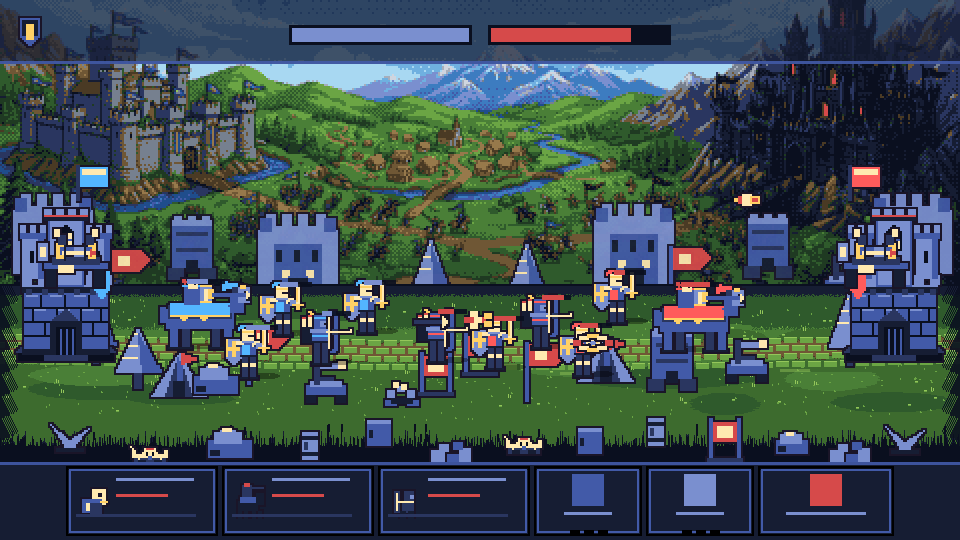
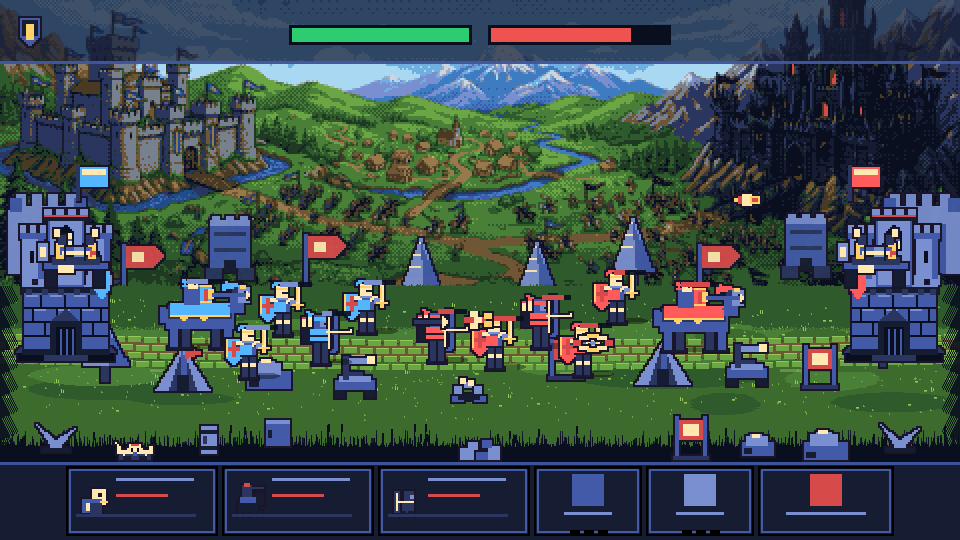
feat(render): bold team heraldry, organic horizon blending, and decluttered props

diff --git a/src/render/unitart.ts b/src/render/unitart.ts
@@ -41,24 +41,25 @@ export function unitKey(age: Age | string, role: UnitRole | string, side: 'playe
 // ---------------------------------------------------------------- stone age
 
 const CLUBBER: SpriteOp[] = [
-  // hide shield, held on the far side with wood/hide boss
+  // hide shield, held on the far side with bold team face and wood boss
   r(7, 8, 6, 9, 'mid'),
-  r(8, 9, 4, 7, 'body'),
+  r(8, 9, 4, 7, 'team'),
   r(9, 11, 2, 3, 'accent'),
   // legs with calf definition + bare feet
   r(13, 16, 4, 5, 'edge'), r(14, 21, 3, 5, 'mid'),
   r(18, 16, 4, 5, 'edge'), r(19, 21, 3, 5, 'mid'),
   r(13, 26, 4, 1, 'panel'), r(19, 26, 4, 1, 'panel'),
-  // bare torso: back shadow, muscle mid-tone, chest highlight, sash & belt
+  // bare torso: back shadow, muscle mid-tone, chest highlight, sash & team war-kilt
   r(12, 9, 9, 7, 'edge'),
   r(14, 9, 6, 5, 'body'),
   r(17, 10, 3, 2, 'accent'),
-  r(12, 11, 9, 1, 'team'),
-  r(12, 15, 9, 1, 'panel'),
+  r(12, 11, 9, 2, 'team'),
+  r(12, 14, 9, 3, 'team'),
+  r(12, 17, 9, 1, 'panel'),
   // head: ragged hair fringe, headband, brow ridge, eye, jawline
   r(14, 3, 6, 6, 'body'),
   r(13, 1, 5, 2, 'panel'), r(17, 2, 3, 1, 'panel'),
-  r(13, 4, 7, 1, 'team'),
+  r(13, 3, 7, 2, 'team'),
   r(19, 5, 1, 1, 'body'), // nose bridge
   r(18, 5, 1, 1, 'ink'),  // eye
   // club raised overhead: angled arm, knotted heavy stone cudgel with flake highlights
@@ -110,15 +111,16 @@ const WAR_MAMMOTH: SpriteOp[] = [
   tri(43, 16, 46, 10, 44, 16, 'light'),
   tri(45, 11, 46, 8, 47, 11, 'light'),
   r(42, 18, 2, 2, 'accent'),
-  // rider: fur-clad chieftain, team blanket, spear with pennant
+  // rider: fur-clad chieftain, broad team blanket with gold fringe, spear with pennant
   r(21, 8, 5, 5, 'mid'),
-  r(16, 12, 13, 2, 'team'),
+  r(14, 11, 18, 5, 'team'),
+  r(13, 16, 20, 1, 'accent'),
   r(20, 4, 6, 6, 'body'),
-  r(20, 4, 6, 1, 'team'),
+  r(19, 3, 8, 2, 'team'),
   r(21, 1, 4, 3, 'body'),
   r(20, 1, 6, 1, 'panel'),
   r(26, 0, 1, 9, 'edge'),
-  tri(27, 0, 34, 2, 27, 5, 'team'),
+  tri(27, 0, 36, 2, 27, 6, 'team'),
 ];
 
 const SLINGER: SpriteOp[] = [
@@ -129,14 +131,15 @@ const SLINGER: SpriteOp[] = [
   r(12, 16, 4, 5, 'edge'), r(13, 21, 4, 5, 'body'),
   r(18, 16, 4, 5, 'edge'), r(19, 21, 4, 5, 'body'),
   r(12, 26, 5, 1, 'panel'), r(19, 26, 5, 1, 'panel'),
-  // torso, team sash, hide skirt
+  // torso, team war-tunic drape & skirt
   r(12, 9, 9, 7, 'edge'),
-  r(13, 9, 7, 5, 'body'),
-  r(12, 11, 9, 1, 'team'),
-  r(11, 15, 11, 2, 'mid'),
-  // head, hair, brow, eye
+  r(12, 9, 8, 7, 'team'),
+  r(12, 13, 8, 1, 'panel'),
+  r(11, 15, 10, 2, 'team'),
+  // head, hair, brow, eye, team feathered band
   r(14, 3, 6, 6, 'body'),
-  r(13, 2, 7, 2, 'panel'),
+  r(13, 2, 7, 2, 'team'),
+  tri(11, 0, 14, 2, 13, 4, 'team'),
   r(19, 5, 1, 1, 'body'),
   r(18, 5, 1, 1, 'ink'),
   // whirling sling: extended cords, stone pouch with rock
@@ -151,21 +154,21 @@ const SLINGER: SpriteOp[] = [
 // ------------------------------------------------------------ medieval age
 
 const MAN_AT_ARMS: SpriteOp[] = [
-  // kite shield with heraldic cross and gold border
-  r(7, 7, 6, 9, 'body'),
-  tri(6, 16, 14, 16, 10, 21, 'body'),
+  // kite shield with bold heraldic team face, gold border and bright cross
+  r(7, 7, 6, 9, 'team'),
+  tri(6, 16, 14, 16, 10, 21, 'team'),
   r(6, 7, 1, 9, 'accent'),
-  r(9, 8, 2, 8, 'accent'),
-  r(7, 11, 6, 2, 'accent'),
+  r(9, 8, 2, 8, 'highlight'),
+  r(7, 11, 6, 2, 'highlight'),
   // legs in steel mail & poleyns + sabatons
   r(14, 16, 3, 10, 'mid'), r(18, 16, 3, 10, 'mid'),
   r(14, 19, 3, 2, 'light'), r(18, 19, 3, 2, 'light'),
   r(13, 26, 4, 1, 'panel'), r(18, 26, 4, 1, 'panel'),
-  // mail hauberk with layered pauldrons and team tabard
+  // mail hauberk with layered pauldrons and bold team tabard
   r(13, 9, 8, 7, 'edge'),
   r(11, 8, 4, 3, 'light'), r(19, 8, 4, 3, 'light'),
   r(11, 10, 3, 1, 'mid'), r(20, 10, 3, 1, 'mid'),
-  r(14, 10, 4, 6, 'team'),
+  r(13, 10, 6, 6, 'team'),
   r(13, 15, 8, 1, 'panel'),
   // great helm with brass crown band, visor slot and heraldic plume
   r(14, 2, 6, 7, 'light'),
@@ -204,21 +207,21 @@ const KNIGHT_HORSE: SpriteOp[] = [
   r(45, 8, 2, 3, 'panel'),
   r(44, 6, 1, 1, 'ink'),
   r(38, 3, 3, 5, 'mid'),
-  // rider: plate armor, grand helm with crest, heater shield
+  // rider: plate armor, grand helm with crest, bold team heater shield
   r(14, 3, 8, 10, 'edge'),
   r(13, 3, 10, 1, 'team'),
   r(16, 0, 5, 5, 'light'),
-  tri(13, 0, 16, 1, 14, 3, 'highlight'),
+  tri(13, 0, 16, 1, 14, 3, 'team'),
   r(19, 2, 1, 1, 'ink'),
-  r(22, 3, 6, 9, 'body'),
+  r(22, 3, 6, 9, 'team'),
   r(22, 3, 6, 1, 'accent'),
   r(22, 11, 6, 1, 'accent'),
-  r(24, 5, 2, 6, 'light'),
+  r(24, 5, 2, 6, 'highlight'),
   // couched lance: vamplate, shaft, steel spearhead, fluttering pennant
   r(26, 5, 3, 5, 'accent'),
   r(28, 7, 17, 2, 'edge'),
   tri(45, 6, 47, 8, 45, 10, 'light'),
-  tri(33, 1, 43, 3, 33, 6, 'team'),
+  tri(33, 1, 44, 3, 33, 6, 'team'),
 ];
 
 const ARCHER: SpriteOp[] = [
@@ -230,15 +233,15 @@ const ARCHER: SpriteOp[] = [
   // legs + leather boots
   r(14, 16, 3, 10, 'mid'), r(18, 16, 3, 10, 'mid'),
   r(13, 26, 4, 1, 'panel'), r(18, 26, 4, 1, 'panel'),
-  // padded gambeson with team trim
+  // padded gambeson with bold team tunic
   r(13, 9, 8, 7, 'edge'),
-  r(12, 9, 10, 2, 'body'),
-  r(13, 12, 8, 1, 'team'),
+  r(12, 9, 9, 6, 'team'),
+  r(12, 12, 9, 1, 'panel'),
   r(13, 15, 8, 1, 'panel'),
   // archer hood with feather and eye
   r(14, 2, 6, 7, 'edge'),
-  r(14, 3, 6, 1, 'team'),
-  tri(11, 0, 14, 1, 13, 3, 'accent'),
+  r(14, 3, 6, 2, 'team'),
+  tri(10, 0, 14, 1, 12, 4, 'team'),
   r(17, 5, 3, 3, 'body'),
   r(19, 6, 1, 1, 'ink'),
   // recurve longbow: curved limb tips, stave, grip, taut bowstring, nocked arrow
@@ -257,19 +260,20 @@ const COMMANDO: SpriteOp[] = [
   // field radio pack, beacon, whip antenna
   r(6, 7, 6, 8, 'panel'),
   r(7, 0, 1, 7, 'panel'),
-  r(7, 0, 1, 1, 'light'),
+  r(7, 0, 1, 2, 'team'),
   r(8, 9, 1, 1, 'highlight'),
   // legs + combat boots
   r(14, 16, 3, 10, 'mid'), r(18, 16, 3, 10, 'mid'),
   r(13, 26, 4, 1, 'panel'), r(18, 26, 4, 1, 'panel'),
-  // plate carrier with ceramic plates and ammo pouches
+  // plate carrier with ceramic plates, team chest webbing & arm patch
   r(12, 9, 10, 7, 'body'),
   r(13, 10, 8, 4, 'edge'),
+  r(13, 10, 8, 2, 'team'),
   r(13, 14, 2, 2, 'panel'), r(16, 14, 2, 2, 'panel'), r(19, 14, 2, 2, 'panel'),
   r(11, 10, 2, 3, 'team'),
-  // tactical helmet, NVG night vision goggles, comms mic
+  // tactical helmet, NVG night vision goggles, comms mic, team headband
   r(13, 2, 7, 5, 'mid'),
-  r(13, 4, 7, 1, 'team'),
+  r(13, 3, 7, 2, 'team'),
   r(18, 4, 3, 2, 'edge'),
   r(19, 4, 2, 1, 'body'),
   r(17, 6, 3, 1, 'panel'),
@@ -295,17 +299,19 @@ const HEAVY_TANK: SpriteOp[] = [
   r(25, 26, 5, 7, 'mid'), r(27, 28, 1, 3, 'edge'),
   r(32, 26, 5, 7, 'mid'), r(34, 28, 1, 3, 'edge'),
   r(38, 26, 4, 6, 'edge'),
-  // hull with sloped glacis, ERA reactive armor tiles, team insignia
+  // hull with sloped glacis, ERA reactive armor tiles, bold team insignia
   r(4, 18, 34, 7, 'body'),
   tri(34, 24, 44, 24, 42, 18, 'edge'),
   r(15, 18, 4, 3, 'edge'), r(20, 18, 4, 3, 'edge'), r(25, 18, 4, 3, 'edge'),
-  r(6, 19, 8, 4, 'team'),
-  // angular wedge turret, commander cupola, thermal optic, antenna
+  r(5, 19, 10, 4, 'team'),
+  // angular wedge turret, commander cupola, thermal optic, antenna pennant
   r(10, 8, 20, 9, 'edge'),
+  r(12, 10, 16, 2, 'team'),
   tri(29, 8, 33, 12, 29, 16, 'edge'),
   r(12, 5, 5, 3, 'panel'),
   r(15, 6, 2, 1, 'body'),
   r(11, 1, 1, 5, 'panel'),
+  tri(11, 1, 15, 2, 11, 4, 'team'),
   // main smoothbore cannon: armored mantlet, thermal bore sleeve, muzzle brake
   r(29, 10, 4, 5, 'panel'),
   r(33, 11, 10, 3, 'edge'),
@@ -314,17 +320,18 @@ const HEAVY_TANK: SpriteOp[] = [
 ];
 
 const SNIPER: SpriteOp[] = [
-  // textured ghillie cape with ragged camouflage tufts, team shoulder patch
+  // textured ghillie cape with ragged camouflage tufts, team shoulder mantle
   r(5, 8, 17, 13, 'panel'),
   tri(5, 12, 3, 15, 6, 17, 'edge'),
   tri(7, 18, 5, 21, 9, 21, 'mid'),
   tri(12, 20, 10, 23, 14, 21, 'edge'),
-  r(11, 9, 4, 2, 'team'),
+  r(9, 8, 8, 3, 'team'),
   // kneeling legs + tactical boots
   r(13, 22, 5, 4, 'edge'), r(18, 20, 5, 6, 'body'),
   r(12, 26, 6, 1, 'panel'), r(18, 26, 6, 1, 'panel'),
-  // sniper boonie hat, mesh veil, eye
+  // sniper boonie hat, mesh veil, eye, team hatband
   r(13, 4, 8, 2, 'panel'),
+  r(13, 4, 8, 1, 'team'),
   r(14, 2, 6, 3, 'mid'),
   r(17, 5, 3, 3, 'edge'),
   r(18, 6, 1, 1, 'ink'),

diff --git a/src/render/propart.ts b/src/render/propart.ts
@@ -375,12 +375,12 @@ const STONE_PROPS: Record<string, PropDef> = {
   crag_small: prop('prop_crag_small_stone', 18, 12, CRAG_S),
   // Stone-age answers for the shared layout slots.
   keep: prop('prop_keep_stone', 40, 48, HUT),
-  siege: prop('prop_siege_stone', 26, 40, TOTEM),
+  siege: prop('prop_siege_stone', 26, 40, WATCH_POST),
   watchtower: prop('prop_watchtower_stone', 26, 40, WATCH_POST),
-  radar: prop('prop_radar_stone', 20, 36, TOTEM),
+  radar: prop('prop_radar_stone', 22, 30, palm(22, 30)),
   chimney: prop('prop_chimney_stone', 22, 44, SMOKE_HOLE),
   rift: prop('prop_rift_stone', 20, 22, FIRE_PIT),
-  banner: prop('prop_banner_stone', 22, 32, TOTEM),
+  banner: prop('prop_banner_stone', 26, 40, WATCH_POST),
   tent: prop('prop_tent_stone', 28, 22, HUT),
   catapult: prop('prop_catapult_stone', 24, 22, STRETCHER),
   wreck: prop('prop_wreck_stone', 32, 22, FIRE_PIT),
@@ -408,8 +408,8 @@ const MEDIEVAL_PROPS: Record<string, PropDef> = {
   bones: prop('prop_bones_medieval', 20, 10, BONES),
   // Medieval answers for the shared layout slots.
   watchtower: prop('prop_watchtower_medieval', 26, 40, SIEGE_FAR),
-  radar: prop('prop_radar_medieval', 20, 36, KEEP_FAR),
-  chimney: prop('prop_chimney_medieval', 22, 44, KEEP_FAR),
+  radar: prop('prop_radar_medieval', 22, 32, BANNER),
+  chimney: prop('prop_chimney_medieval', 20, 36, conifer(20, 36, true)),
   rift: prop('prop_rift_medieval', 20, 22, CATAPULT),
   wreck: prop('prop_wreck_medieval', 32, 22, CATAPULT),
   wire: prop('prop_wire_medieval', 20, 20, RACK_MED),
@@ -477,46 +477,38 @@ export interface PropPlacement {
 
 export const PROP_LAYOUT: PropPlacement[] = [
   // Horizon silhouettes, sitting inside the painted sky band.
-  { prop: 'keep', at: 0.055, slot: 'skyline', offset: 0 },
-  { prop: 'keep', at: 0.95, slot: 'skyline', offset: 0 },
-  { prop: 'siege', at: 0.2, slot: 'skyline', offset: 6 },
-  { prop: 'watchtower', at: 0.8, slot: 'skyline', offset: 4 },
-  { prop: 'radar', at: 0.31, slot: 'skyline', offset: 8, anim: 'spin' },
-  { prop: 'chimney', at: 0.66, slot: 'skyline', offset: 2 },
-  { prop: 'totem', at: 0.135, slot: 'skyline', offset: 22 },
-  { prop: 'rift', at: 0.88, slot: 'skyline', offset: 12, anim: 'pulse' },
-  { prop: 'banner', at: 0.72, slot: 'skyline', offset: 20, anim: 'flicker' },
-  { prop: 'pine_large', at: 0.45, slot: 'skyline', offset: 26 },
-  { prop: 'pine_large', at: 0.55, slot: 'skyline', offset: 30 },
+  { prop: 'keep', at: 0.05, slot: 'skyline', offset: 0 },
+  { prop: 'totem', at: 0.15, slot: 'skyline', offset: 18 },
+  { prop: 'siege', at: 0.24, slot: 'skyline', offset: 6 },
+  { prop: 'radar', at: 0.34, slot: 'skyline', offset: 8, anim: 'spin' },
+  { prop: 'pine_large', at: 0.44, slot: 'skyline', offset: 24 },
+  { prop: 'pine_large', at: 0.56, slot: 'skyline', offset: 28 },
+  { prop: 'chimney', at: 0.66, slot: 'skyline', offset: 4 },
+  { prop: 'banner', at: 0.75, slot: 'skyline', offset: 18, anim: 'flicker' },
+  { prop: 'watchtower', at: 0.84, slot: 'skyline', offset: 4 },
+  { prop: 'rift', at: 0.91, slot: 'skyline', offset: 10, anim: 'pulse' },
+  { prop: 'keep', at: 0.96, slot: 'skyline', offset: 0 },
 
-  // Planted along the walkable strip, behind the units.
-  { prop: 'pine_large', at: 0.1, slot: 'ground', offset: 2 },
-  { prop: 'palm', at: 0.145, slot: 'ground', offset: 26 },
-  { prop: 'pine_large', at: 0.885, slot: 'ground', offset: 4 },
-  { prop: 'hut', at: 0.185, slot: 'ground', offset: 34 },
-  { prop: 'crag', at: 0.225, slot: 'ground', offset: 30 },
-  { prop: 'totem', at: 0.28, slot: 'ground', offset: 20 },
-  { prop: 'campfire', at: 0.42, slot: 'ground', offset: 40, anim: 'flicker' },
-  { prop: 'rack', at: 0.5, slot: 'ground', offset: 14 },
-  { prop: 'banner', at: 0.57, slot: 'ground', offset: 36, anim: 'flicker' },
-  { prop: 'tent', at: 0.63, slot: 'ground', offset: 16 },
-  { prop: 'siege', at: 0.7, slot: 'ground', offset: 38 },
-  { prop: 'catapult', at: 0.78, slot: 'ground', offset: 18 },
-  { prop: 'wreck', at: 0.35, slot: 'ground', offset: 38 },
-  { prop: 'sandbags', at: 0.46, slot: 'ground', offset: 30 },
+  // Planted along the walkable strip, behind the units with generous breathing room.
+  { prop: 'palm', at: 0.11, slot: 'ground', offset: 20 },
+  { prop: 'hut', at: 0.19, slot: 'ground', offset: 28 },
+  { prop: 'crag', at: 0.28, slot: 'ground', offset: 24 },
+  { prop: 'wreck', at: 0.38, slot: 'ground', offset: 32 },
+  { prop: 'campfire', at: 0.49, slot: 'ground', offset: 36, anim: 'flicker' },
+  { prop: 'rack', at: 0.59, slot: 'ground', offset: 18 },
+  { prop: 'tent', at: 0.69, slot: 'ground', offset: 20 },
+  { prop: 'catapult', at: 0.78, slot: 'ground', offset: 22 },
+  { prop: 'sandbags', at: 0.86, slot: 'ground', offset: 26 },
+  { prop: 'pine_large', at: 0.92, slot: 'ground', offset: 6 },
 
-  // Foreground band: below the walk line, close to camera.
-  { prop: 'fern_large', at: 0.075, slot: 'front', offset: 0 },
-  { prop: 'bones', at: 0.155, slot: 'front', offset: 10 },
-  { prop: 'crag', at: 0.24, slot: 'front', offset: 4 },
-  { prop: 'barrel', at: 0.325, slot: 'front', offset: 14 },
-  { prop: 'crate', at: 0.395, slot: 'front', offset: 2 },
-  { prop: 'rubble', at: 0.47, slot: 'front', offset: 12 },
-  { prop: 'bones', at: 0.545, slot: 'front', offset: 0 },
-  { prop: 'crate', at: 0.615, slot: 'front', offset: 10 },
-  { prop: 'barrel', at: 0.685, slot: 'front', offset: 0 },
-  { prop: 'wire', at: 0.755, slot: 'front', offset: 8 },
-  { prop: 'crag_small', at: 0.825, slot: 'front', offset: 0 },
-  { prop: 'rubble', at: 0.885, slot: 'front', offset: 12 },
-  { prop: 'fern_large', at: 0.945, slot: 'front', offset: 2 },
+  // Foreground framing: framed at the outer flanks, leaving the center lane clear for combat.
+  { prop: 'fern_large', at: 0.06, slot: 'front', offset: 0 },
+  { prop: 'bones', at: 0.14, slot: 'front', offset: 6 },
+  { prop: 'barrel', at: 0.22, slot: 'front', offset: 8 },
+  { prop: 'crate', at: 0.29, slot: 'front', offset: 2 },
+  { prop: 'rubble', at: 0.50, slot: 'front', offset: 10 },
+  { prop: 'wire', at: 0.72, slot: 'front', offset: 6 },
+  { prop: 'crag_small', at: 0.79, slot: 'front', offset: 2 },
+  { prop: 'crag', at: 0.86, slot: 'front', offset: 6 },
+  { prop: 'fern_large', at: 0.94, slot: 'front', offset: 0 },
 ];

diff --git a/src/render/laneart.ts b/src/render/laneart.ts
@@ -40,11 +40,8 @@ export function paintLane(g: PixelGraphics, age: Age, _characterPalette?: unknow
   const top = LANE_TOP;
   const bottom = FORE_BOTTOM;
 
-  // A) Distance haze under the horizon, then receding field bands. Transitions
-  // are three dithered rows so the bands read as distance, not as shelves.
-  fill(g, 0, top, LANE_WIDTH, 8, char.panel);
-  ditherBand(g, top + 8, char.panel, terrain.fieldFar);
-  fill(g, 0, top + 11, LANE_WIDTH, 30, terrain.fieldFar);
+  // A) Receding field bands: distant terrain blends smoothly with horizon.
+  fill(g, 0, top, LANE_WIDTH, 41, terrain.fieldFar);
   ditherBand(g, top + 41, terrain.fieldFar, terrain.field);
   fill(g, 0, top + 44, LANE_WIDTH, 32, terrain.field);
   ditherBand(g, top + 76, terrain.field, terrain.fieldNear);
@@ -54,10 +51,17 @@ export function paintLane(g: PixelGraphics, age: Age, _characterPalette?: unknow
   paintTrack(g, age, terrain);
   paintTerrainDetail(g, age, terrain.detail, terrain.accent, char);
 
-  // B) Ink line where the sky meets the ground, and a heavier lip at the front
-  // edge of the lane so the terrain reads as a solid slab.
-  fill(g, 0, top - 2, LANE_WIDTH, 2, char.dark);
-  fill(g, 0, FORE_BOTTOM - 5, LANE_WIDTH, 5, char.dark);
+  // B) Organic horizon ridge blending terrain with the painted backdrop,
+  // and a shaded lip at the front edge.
+  for (let x = 0; x < LANE_WIDTH; x++) {
+    const h = hash(x * 19 + 7);
+    if (h > 0.5) fill(g, x, top - 1, 1, 1, terrain.fieldFar);
+    if (h > 0.82) fill(g, x, top - 2, 1, 1, terrain.fieldFar);
+  }
+  fill(g, 0, FORE_BOTTOM - 3, LANE_WIDTH, 3, char.dark);
+  for (let x = 0; x < LANE_WIDTH; x++) {
+    if (hash(x * 23 + 11) > 0.5) fill(g, x, FORE_BOTTOM - 4, 1, 1, char.dark);
+  }
 
   // C) Corner vignettes, kept to a handful of dithered columns at each end.
   for (let i = 0; i < 18; i++) {

diff --git a/scripts/render-preview.ts b/scripts/render-preview.ts
@@ -223,9 +223,9 @@ function renderScene(age: Age): SoftGfx {
   ];
   blit(g, rasterize(16, 16, crest, age), 30, 32, PIXEL_SCALE, 0xffffff, 1, 0.5, 0.5);
   fill(g, LANE_WIDTH / 2 - 191, 25, 183, 20, pal.dark);
-  fill(g, LANE_WIDTH / 2 - 188, 28, 177, 14, pal.body);
+  fill(g, LANE_WIDTH / 2 - 188, 28, 177, 14, 0x2ecc71);
   fill(g, LANE_WIDTH / 2 + 8, 25, 183, 20, pal.dark);
-  fill(g, LANE_WIDTH / 2 + 11, 28, 140, 14, pal.highlight);
+  fill(g, LANE_WIDTH / 2 + 11, 28, 140, 14, 0xef5350);
   void BASE_HP;
 
   const panelY = LANE_HEIGHT - 78;

diff --git a/scripts/e2e-browser-check.py b/scripts/e2e-browser-check.py
@@ -44,7 +44,7 @@ try:
         page.on("console", lambda msg: js_errors.append(msg.text) if msg.type == "error" else None)
 
         print("[E2E] Loading game...")
-        page.goto(URL, wait_until="networkidle", timeout=15000)
+        page.goto(URL, wait_until="domcontentloaded", timeout=15000)
         page.wait_for_timeout(2000)
 
         canvas = page.wait_for_selector("canvas", timeout=5000)
